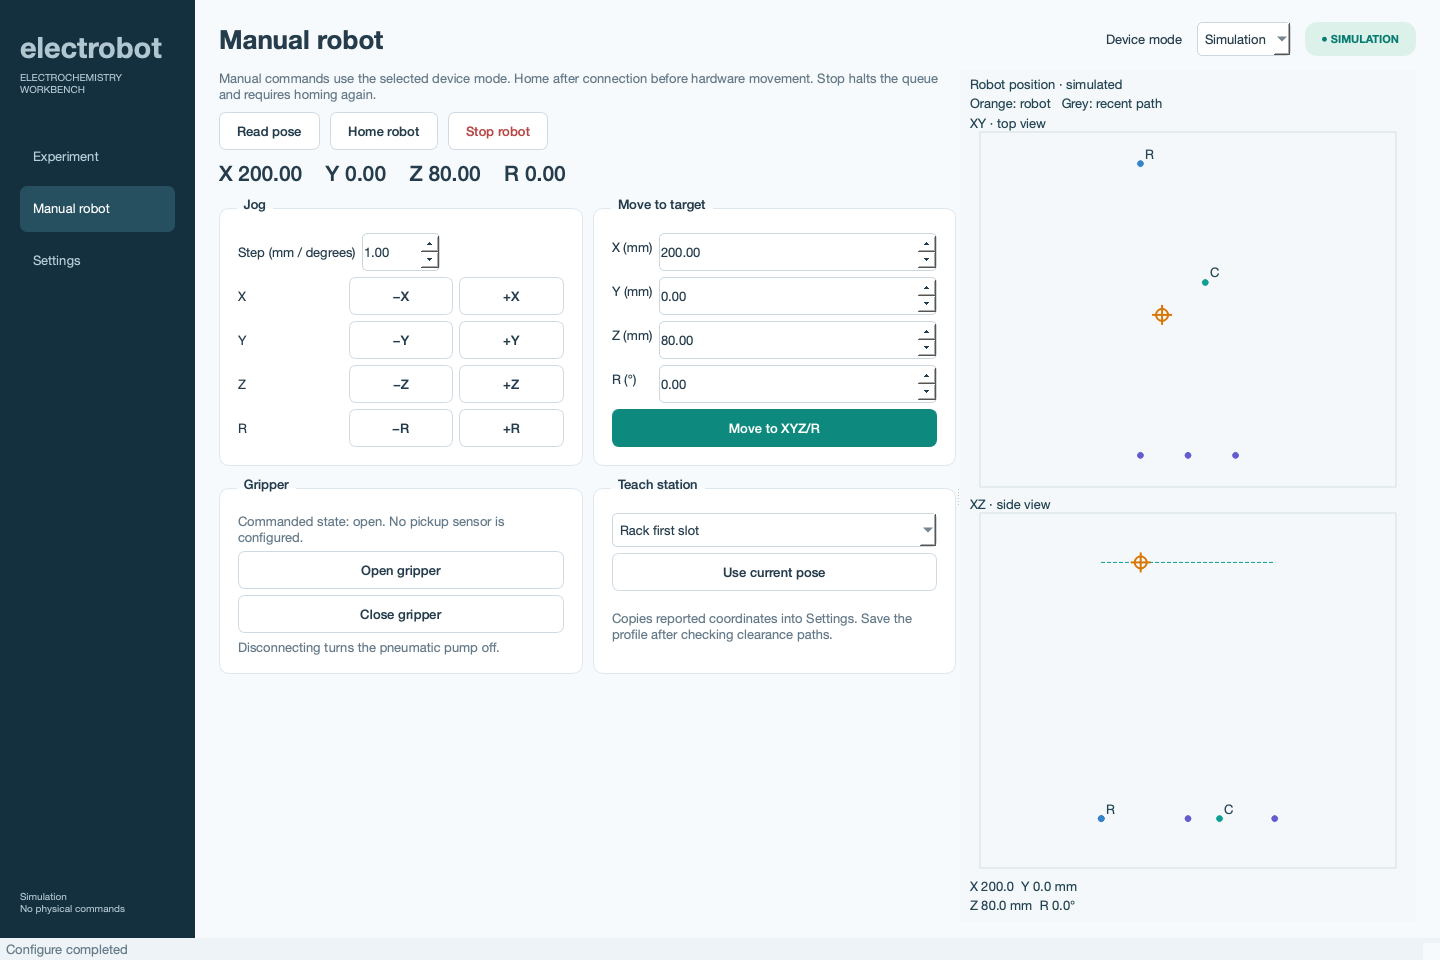
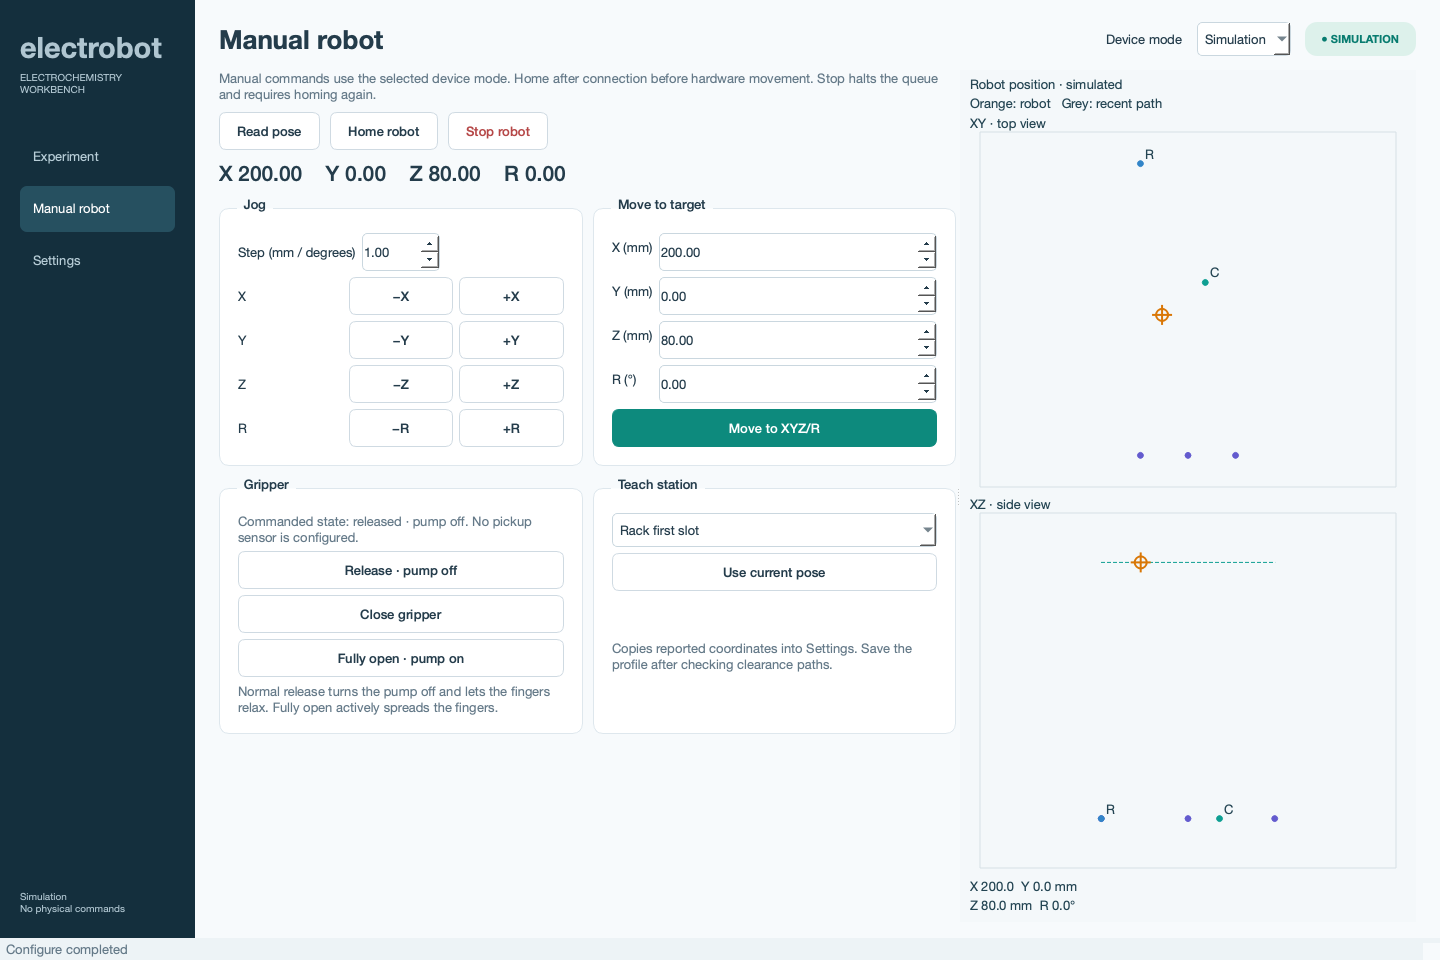
Use pump-off gripper release by default

diff --git a/electrobot/app.py b/electrobot/app.py
@@ -258,9 +258,10 @@ class Window(QMainWindow):
             f=QDoubleSpinBox(); f.setRange(-400,400); f.setValue(value); form.addRow(axis+(' (°)' if axis=='R' else ' (mm)'),f); self.target_fields.append(f)
         tl.addLayout(form); self.target_move=button('Move to XYZ/R',lambda:self.submit('move',tuple(f.value() for f in self.target_fields)),True); tl.addWidget(self.target_move); self.manual_buttons.append(self.target_move); self.motion_buttons.append(self.target_move); row.addWidget(target,1); l.addLayout(row)
         bottom=QHBoxLayout(); grip,gl=card('Gripper'); self.grip_label=self.note('Commanded state: open. No pickup sensor is configured.'); gl.addWidget(self.grip_label)
-        for text,closed in (('Open gripper',False),('Close gripper',True)):
+        for text,closed in (('Release · pump off',False),('Close gripper',True)):
             b=button(text,lambda checked=False,c=closed:self.submit('grip',c)); gl.addWidget(b); self.manual_buttons.append(b)
-        gl.addWidget(self.note('Disconnecting turns the pneumatic pump off.')); bottom.addWidget(grip)
+        b=button('Fully open · pump on',lambda:self.submit('open_fully')); gl.addWidget(b); self.manual_buttons.append(b)
+        gl.addWidget(self.note('Normal release turns the pump off and lets the fingers relax. Fully open actively spreads the fingers.')); bottom.addWidget(grip)
         teach,tt=card('Teach station'); self.teach_station=QComboBox(); self.teach_station.addItems(['Rack first slot','Cell seating pose','Rinse dipping pose','Travel height'])
         tt.addWidget(self.teach_station); self.teach_button=button('Use current pose',self.teach_pose); tt.addWidget(self.teach_button)
         tt.addWidget(self.note('Copies reported coordinates into Settings. Save the profile after checking clearance paths.')); bottom.addWidget(teach); l.addLayout(bottom); l.addStretch()
@@ -350,7 +351,8 @@ class Window(QMainWindow):
         hardware=self.mode.currentData()=='hardware'
         self.robot_status.setText('Robot · '+('connected' if state['robot'] else 'disconnected')+(' · homed' if state['homed'] else ''))
         self.pot_status.setText('Potentiostat · '+state.get('potentiostat_name','Disconnected'))
-        self.grip_label.setText('Commanded state: '+('closed / electrode may be held' if state['holding'] else 'open')+'. No pickup sensor is configured.')
+        gripper_labels={'closed':'closed · pump on / electrode may be held','released':'released · pump off','fully_open':'fully open · pump on','unknown':'unknown'}
+        self.grip_label.setText('Commanded state: '+gripper_labels[state.get('gripper_state','unknown')]+'. No pickup sensor is configured.')
         self.refresh_controls()
     def refresh_controls(self):
         idle=not self.busy and not self._close_pending; hardware=self.mode.currentData()=='hardware'; d=self.device_state

diff --git a/electrobot/worker.py b/electrobot/worker.py
@@ -26,6 +26,7 @@ class DeviceWorker(QThread):
         self.state.emit({'mode':self.mode,'robot':self.robot_connected,'potentiostat':self.pot_connected,
             'homed':bool(self.robot and self.robot.homed),
             'holding':bool(self.robot and self.robot.holding),
+            'gripper_state':self.robot.gripper_state if self.robot_connected else 'unknown',
             'potentiostat_name':self.pot.name if self.pot_connected else 'Disconnected'})
     def close_devices(self):
         errors=[]
@@ -85,6 +86,7 @@ class DeviceWorker(QThread):
                         pose=self.robot.pose(); target=[pose[k] for k in ('x','y','z','r')]
                         axis,delta=payload; target[axis]+=delta; self.robot.move(target)
                     elif command=='grip': self.robot.grip(payload)
+                    elif command=='open_fully': self.robot.open_fully()
                     elif command=='stop': self.robot.stop()
                     else: raise ValueError(f'Unknown command: {command}')
                     if command!='stop': self.robot.pose()
@@ -95,7 +97,7 @@ class DeviceWorker(QThread):
                     except Exception as exc: message+=f'; stop failed: {exc}'
             except Exception as exc:
                 ok=False; message=str(exc)
-                if command in ('home','move','jog','grip','run','rehearse') and self.robot_connected:
+                if command in ('home','move','jog','grip','open_fully','run','rehearse') and self.robot_connected:
                     try: self.robot.stop()
                     except Exception as cleanup: message+=f'; stop failed: {cleanup}'
             finally:

diff --git a/tests/test_drivers.py b/tests/test_drivers.py
@@ -17,7 +17,7 @@ class FakeArm:
         self.cmds=SimpleNamespace(queue_start=lambda:self.calls.append('start'),
             queue_stop=lambda:self.calls.append('stop'),queue_clear=lambda:self.calls.append('clear'),
             current_index=lambda:0 if self.pending else self.index)
-        self.effector=SimpleNamespace(grip=lambda on,queued:self.calls.append(('grip',on,queued)))
+        self.effector=SimpleNamespace(grip=lambda on,enable,queued:self.calls.append(('grip',on,enable,queued)))
     def connect(self): self.calls.append('connect')
     def disconnect(self): self.calls.append('disconnect')
     def set_speed(self,*args): self.calls.append(('speed',args))
@@ -74,7 +74,9 @@ class DriverTests(unittest.TestCase):
         self.assertEqual(r.pose()['x'],210)
         call=next(c for c in r.arm.calls if isinstance(c,tuple) and c[0]=='move')
         self.assertEqual(call[2],{'mode':2,'wait':False})
-        r.grip(True); self.assertTrue(r.holding); self.assertIn(('grip',True,False),r.arm.calls)
+        r.grip(True); self.assertTrue(r.holding); self.assertIn(('grip',True,True,False),r.arm.calls)
+        r.grip(False); self.assertFalse(r.holding); self.assertEqual(r.gripper_state,'released'); self.assertEqual(r.arm.calls[-1],('grip',False,False,False))
+        r.open_fully(); self.assertFalse(r.holding); self.assertEqual(r.gripper_state,'fully_open'); self.assertEqual(r.arm.calls[-1],('grip',False,True,False))
         r.stop(); self.assertFalse(r.homed); self.assertEqual(r.arm.calls[-2:],['stop','clear'])
         r.disconnect()
     def test_outside_workspace_is_not_sent(self):

diff --git a/electrobot/drivers.py b/electrobot/drivers.py
@@ -10,7 +10,7 @@ CURRENT_RANGES={.001:'1nA',.01:'10nA',.1:'100nA',1:'1uA',10:'10uA',100:'100uA',1
 class DobotRobot:
     def __init__(self,s,control,pose_callback=lambda p:None,arm_factory=None):
         self.s=s; self.control=control; self.pose_callback=pose_callback
-        self.arm_factory=arm_factory; self.arm=None; self.holding=False; self.homed=False
+        self.arm_factory=arm_factory; self.arm=None; self.holding=False; self.homed=False; self.gripper_state='unknown'
     def connect(self):
         if self.arm is not None: return
         try:
@@ -67,8 +67,14 @@ class DobotRobot:
         self._wait_index(index,self.s.motion_timeout,target)
     def grip(self,closed):
         self.control.check()
-        self.arm.effector.grip(bool(closed),queued=False)
+        self.arm.effector.grip(bool(closed),enable=bool(closed),queued=False)
         self.holding=bool(closed)  # Commanded state; not a pickup sensor.
+        self.gripper_state='closed' if closed else 'released'
+        self.control.wait(self.s.grip_dwell)
+    def open_fully(self):
+        self.control.check()
+        self.arm.effector.grip(False,enable=True,queued=False)
+        self.holding=False; self.gripper_state='fully_open'
         self.control.wait(self.s.grip_dwell)
     def stop(self):
         self.homed=False

diff --git a/electrobot/engine.py b/electrobot/engine.py
@@ -28,7 +28,7 @@ class Control:
 
 class SimRobot:
     def __init__(self,settings,control):
-        self.s=settings; self.control=control; self.holding=False; self.homed=True
+        self.s=settings; self.control=control; self.holding=False; self.homed=True; self.gripper_state='released'
         self.current_pose={'x':200.0,'y':0.0,'z':80.0,'r':0.0}; self.pose_callback=lambda p:None
     def move(self,pose):
         self.s.validate_pose(pose)
@@ -40,6 +40,9 @@ class SimRobot:
             self.pose_callback(dict(self.current_pose))
     def grip(self,closed):
         self.control.wait(.4/self.s.simulation_speed); self.holding=closed
+        self.gripper_state='closed' if closed else 'released'
+    def open_fully(self):
+        self.control.wait(.4/self.s.simulation_speed); self.holding=False; self.gripper_state='fully_open'
 
     def connect(self): self.pose_callback(self.current_pose)
     def disconnect(self): pass

diff --git a/README.md b/README.md
@@ -50,7 +50,7 @@ Native PalmSens CV returns to its start potential, so the UI has a combined **St
 
 ## Manual robot
 
-Use **Manual robot** to read the reported pose, home, jog XYZ/R, move to an absolute target, and open/close the gripper. Commands run in the same serialized worker as experiments, so batch and manual operations cannot compete for a device. Operations and mode changes are disabled during an active command.
+Use **Manual robot** to read the reported pose, home, jog XYZ/R, move to an absolute target, and release/close/fully open the gripper. Commands run in the same serialized worker as experiments, so batch and manual operations cannot compete for a device. Operations and mode changes are disabled during an active command.
 
 Hardware connection does not home, move, or actuate the gripper. Homing is explicit and required before hardware motion. Moves use `MOVL_XYZ`, wait for queued-command completion, and then verify reported XYZ/R against the configured tolerance. Timeouts, cancellation and pose mismatch stop and clear the queue. Rehome before subsequent hardware movement after a stop.
 
@@ -67,7 +67,7 @@ Robot calibration and Workspace use the same top/side diagram, including X/Y/Z b
 A suggested first lab session:
 
 1. Select Hardware, set the Dobot COM port and PalmSens device ID if more than one instrument is present, and connect the robot. Connect the potentiostat independently. An ambiguous discovery result is an error; the app does not silently pick a device or fall back to simulation.
-2. Clear the homing path and use Manual robot → Home. Test the gripper unloaded. The hardware driver uses `arm.effector.grip(on, queued=False)`; `True` closes it and `False` opens it. Check this behaviour on your installed gripper.
+2. Clear the homing path and use Manual robot → Home. Test the gripper unloaded. Normal release uses `arm.effector.grip(False, enable=False, queued=False)` so the pump is off and the fingers relax to their intermediate opening. Closing uses `grip(True, enable=True, queued=False)`. Manual robot also provides **Fully open · pump on**, using `grip(False, enable=True, queued=False)` for the powered opening limit. Experiments and rehearsals always use pump-off release. Check clearance and successful release with your installed gripper; displayed states are commanded, not measured finger positions.
 3. Jog in small increments and teach rack slot 1, cell and rinse poses. Configure rack spacing/columns, tool rotation, travel height, and endpoint workspace bounds. Validate all straight-line approaches and clearance transfers, including the initial lift from the current pose.
 4. Verify carrier seating, immersion, release/retrieval, gripper clearance and dry WE electrical contact. Mark **Station poses and paths calibrated** and **Gripper, seating and dry contact verified**. Geometry changes clear the fixture flag.
 5. Connect the potentiostat, select a chemistry-appropriate CV protocol and current range, and start with one electrode. The device validates the method before any batch movement.
